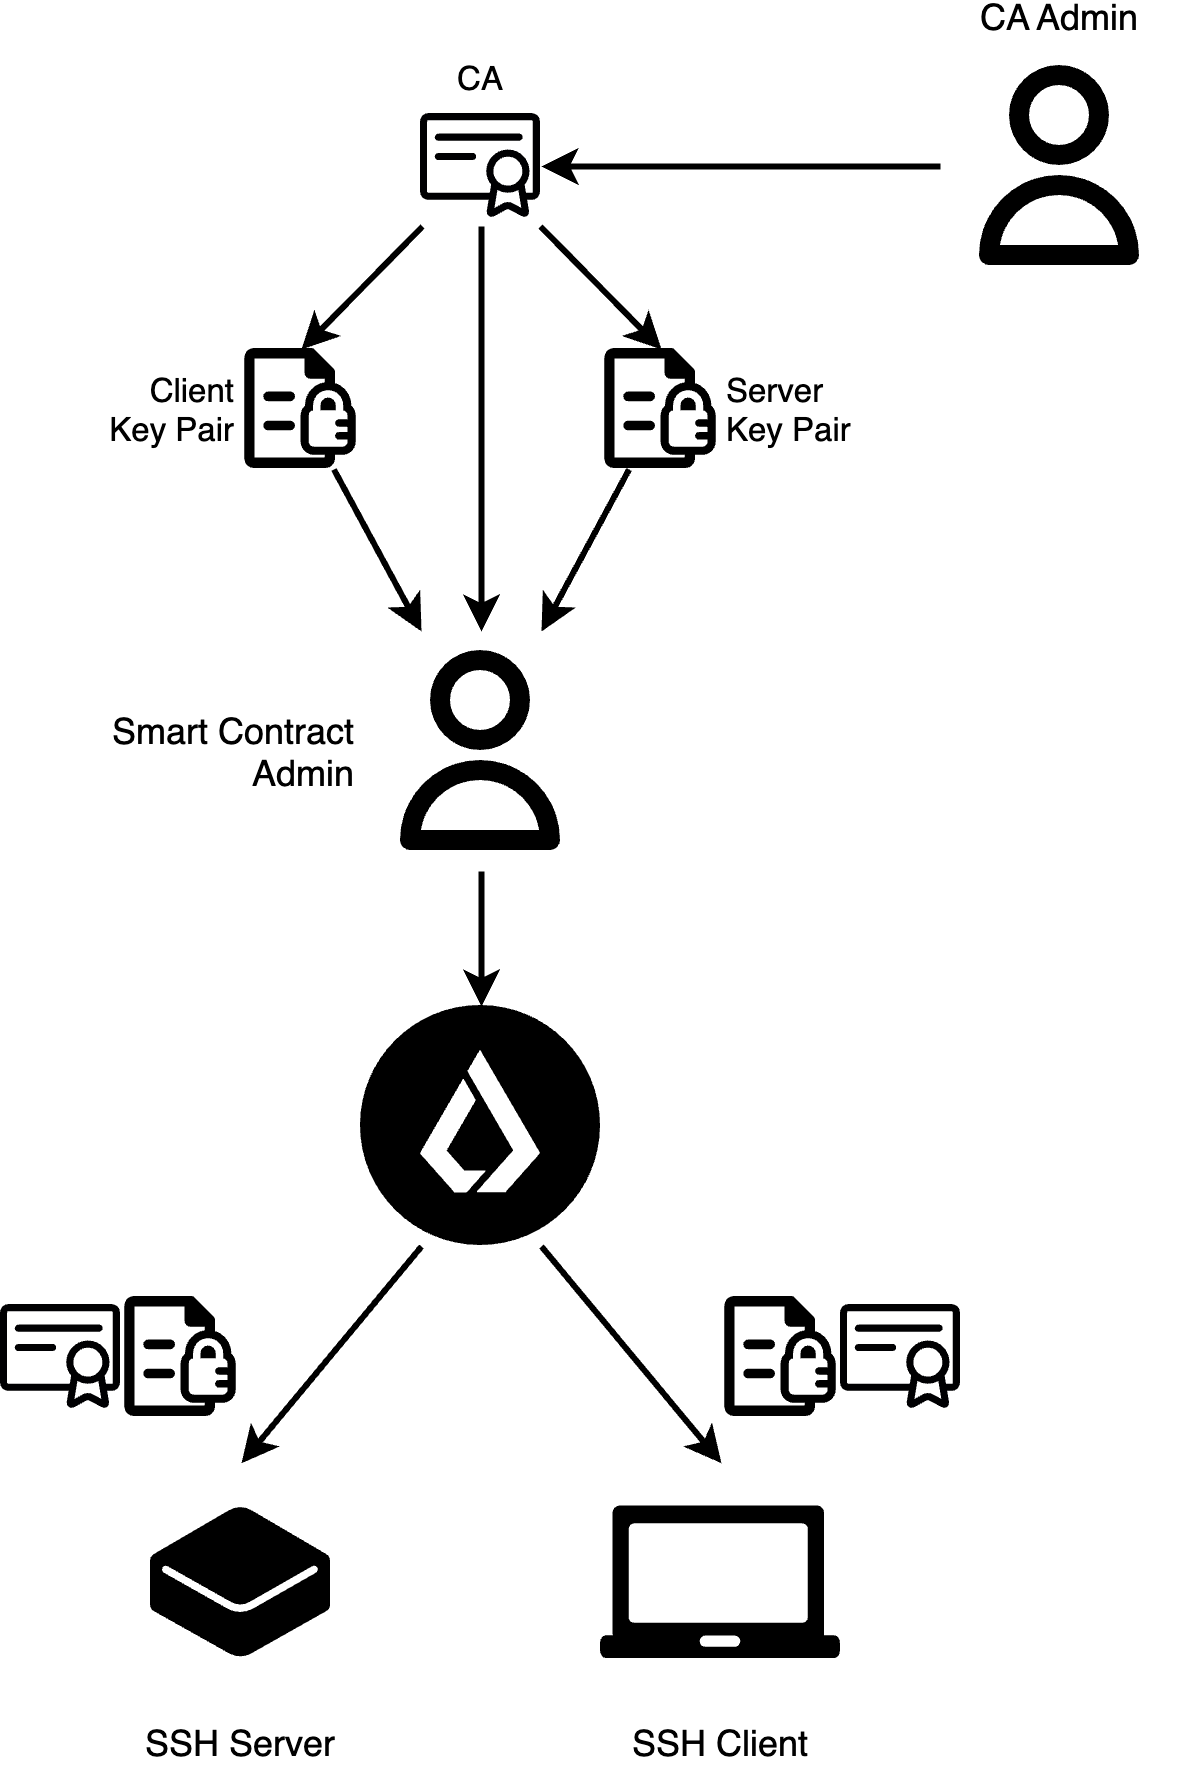
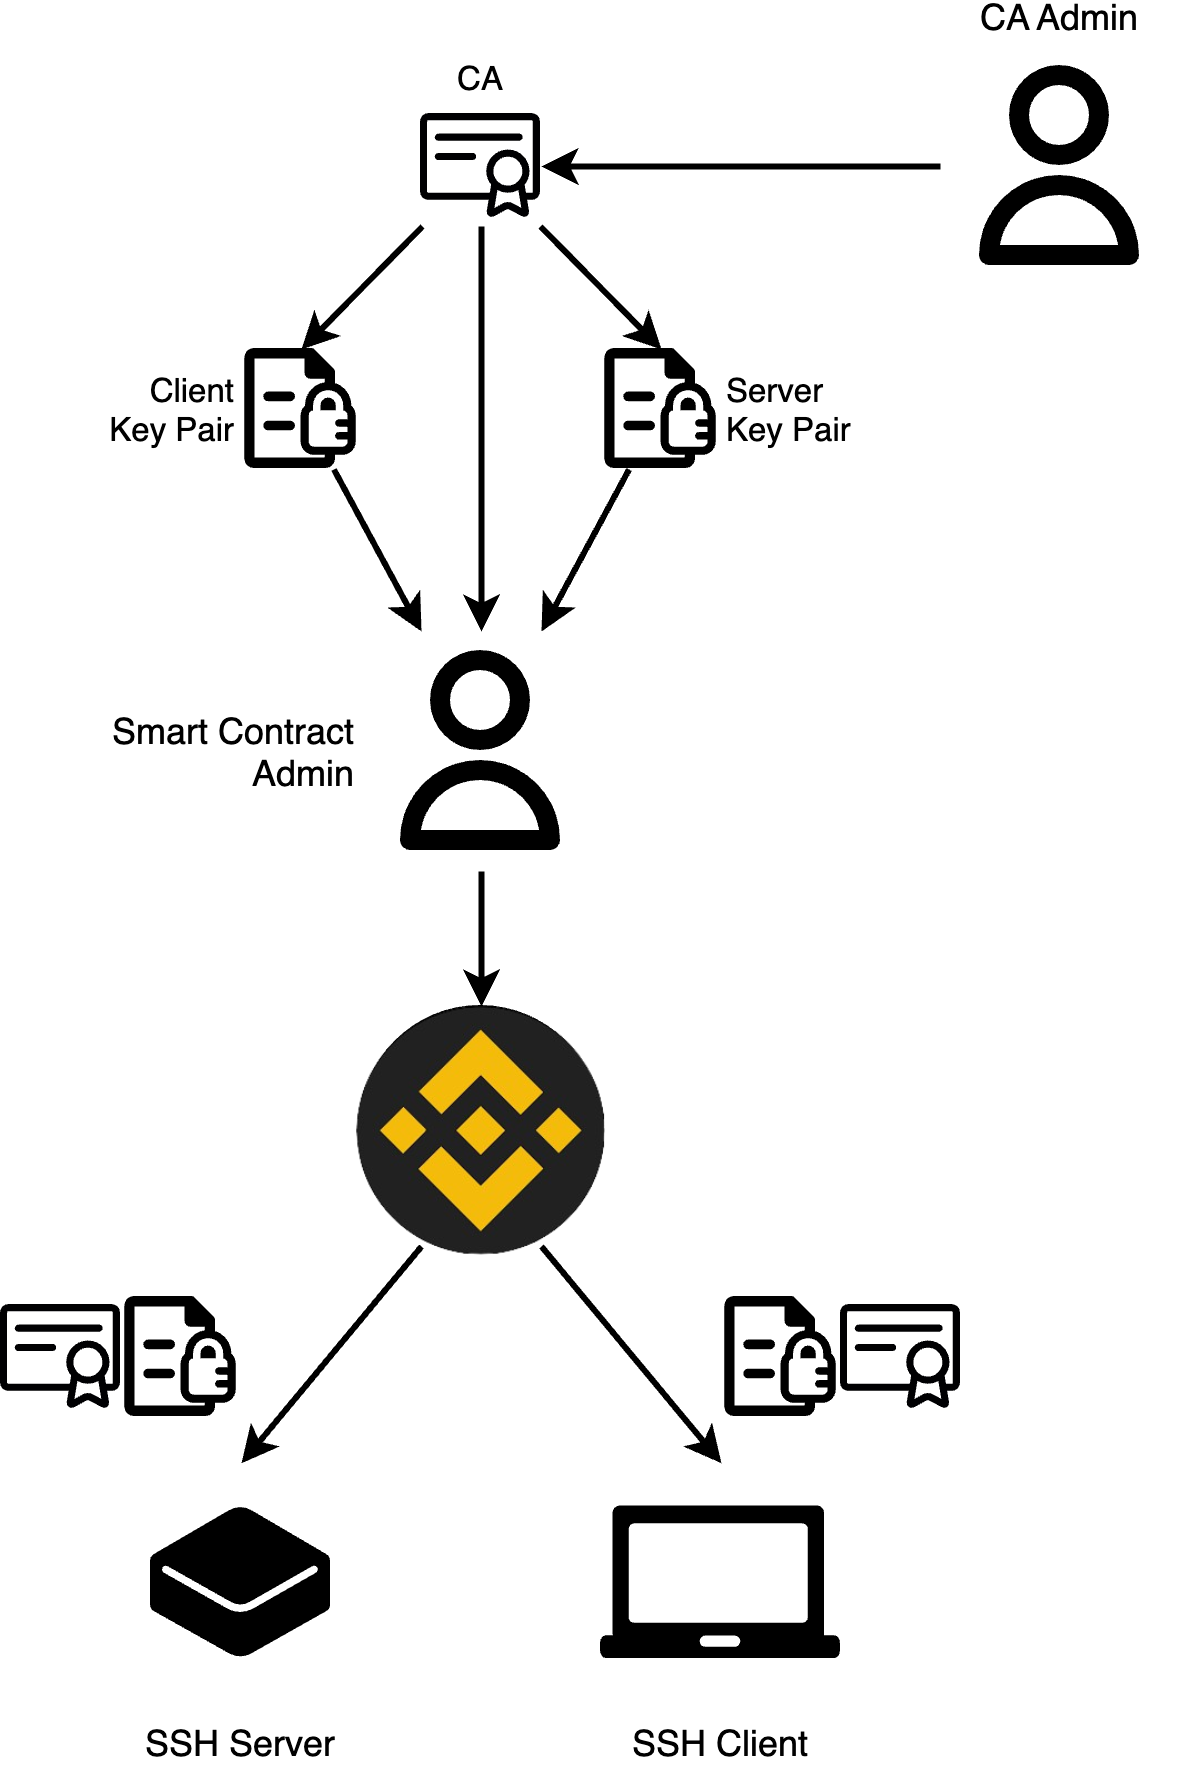
Readme updated

Changed region(s): [[0.3046, 0.5603, 0.5178, 0.7159]]

diff --git a/README.md b/README.md
@@ -1,19 +1,26 @@
-# DPKI
+# De-Key
 
 Decentralized Public Key Infrastructure.
 
 This project is intended to improve security and usability of keys distribution and make chain of trust more distributed.
 
-This theme is very crucial for IIoT and DePIN sector. There are a lot of new devices setup every day with various purposes, from home to industrial. IIoT area is expected billion of devices in the near future. To have secure and automated infrastructure for certificates distributing and rotation is important for proper, healthy and secure work of the any project or company. Here we come with DPKI solution for DePIN to improve remote access to drones, vehicles and robots and communication between them.
+This theme is very crucial for IIoT and DePIN sector. There are a lot of new devices setup every day with various purposes, from home to industrial. IIoT area is expected billion of devices in the near future. To have secure and automated infrastructure for certificates distributing and rotation is important for proper, healthy and secure work of the any project or company. Here we come with De-Key solution for DePIN to improve remote access to drones, vehicles and robots and communication between them.
 
 | Problem | Solution |
 | - | - |
-| There is **no secure** and decentralized solution to distribute certificates across devices. Centralized solutions **can’t work** in an **honest and transparent** way and **require infrastructure**. | Decentralized **no-infrastructure** way to **securely distribute** certificates utilizes the **Lisk** EVM smart contract for **integrity** and IPFS to **avoid infrastructure**. |
+| There is **no secure** and decentralized solution to distribute certificates across devices. Centralized solutions **can’t work** in an **honest and transparent** way and **require infrastructure**. | Decentralized **no-infrastructure** way to **securely distribute** certificates utilizes the **BNB** smart contract for **integrity** and IPFS to **avoid infrastructure**. |
 
 - [Here you can check sequence diagram to understand](./docs/render/Flow.png) **how it works**.
 - [Chain of trust description](./docs/chain_of_trust.md) **and how it works**.
 
-![](./docs/images/dpki_lisk_slide.png)
+## Deployment details
+
+- [deployed contract link](https://opbnb-testnet.bscscan.com/tx/0x8b81921e4208af9d1e48a1b20052c9f78cef6b65637a60cf6597cae2538b11a8) 
+
+- contract Address : 0x85640Fc5b6A2eDd3D16A2F1871e1026A536a3ECD
+
+
+![](./docs/images/dekey-slide.png)
 
 ## How it works
 
@@ -63,4 +70,4 @@ For example user has an IIoT device and user needs access to it for 5 minutes on
 
 ### Microservices communication
 
-Microservices require secure communication with each other. With DPKI solution we can provide new key pair for every microservice deployed to the cloud and distribute it public key to other microservice. With such an approach communication between microservice will be secure and automatically initiated.
+Microservices require secure communication with each other. With De-Key solution we can provide new key pair for every microservice deployed to the cloud and distribute it public key to other microservice. With such an approach communication between microservice will be secure and automatically initiated.

diff --git a/contracts/README.md b/contracts/README.md
@@ -1,17 +1,16 @@
 # Contracts
 
-## Lisk Sepolia testnet
+## Binance Contract Details
 
-Latest deployed smart contract.
+Deployed smart contract.
 
-https://sepolia-blockscout.lisk.com/address/0x17536460b997842f8396409514986905eF63b58E
+https://opbnb-testnet.bscscan.com/tx/0x8b81921e4208af9d1e48a1b20052c9f78cef6b65637a60cf6597cae2538b11a8
 
 ## Usage
 
 Do not forget to set `.env` file.
 
 ```.env
-RPC_URL=https://rpc.sepolia-api.lisk.com
 PRIVATE_KEY=<private-key>
 ```
 
